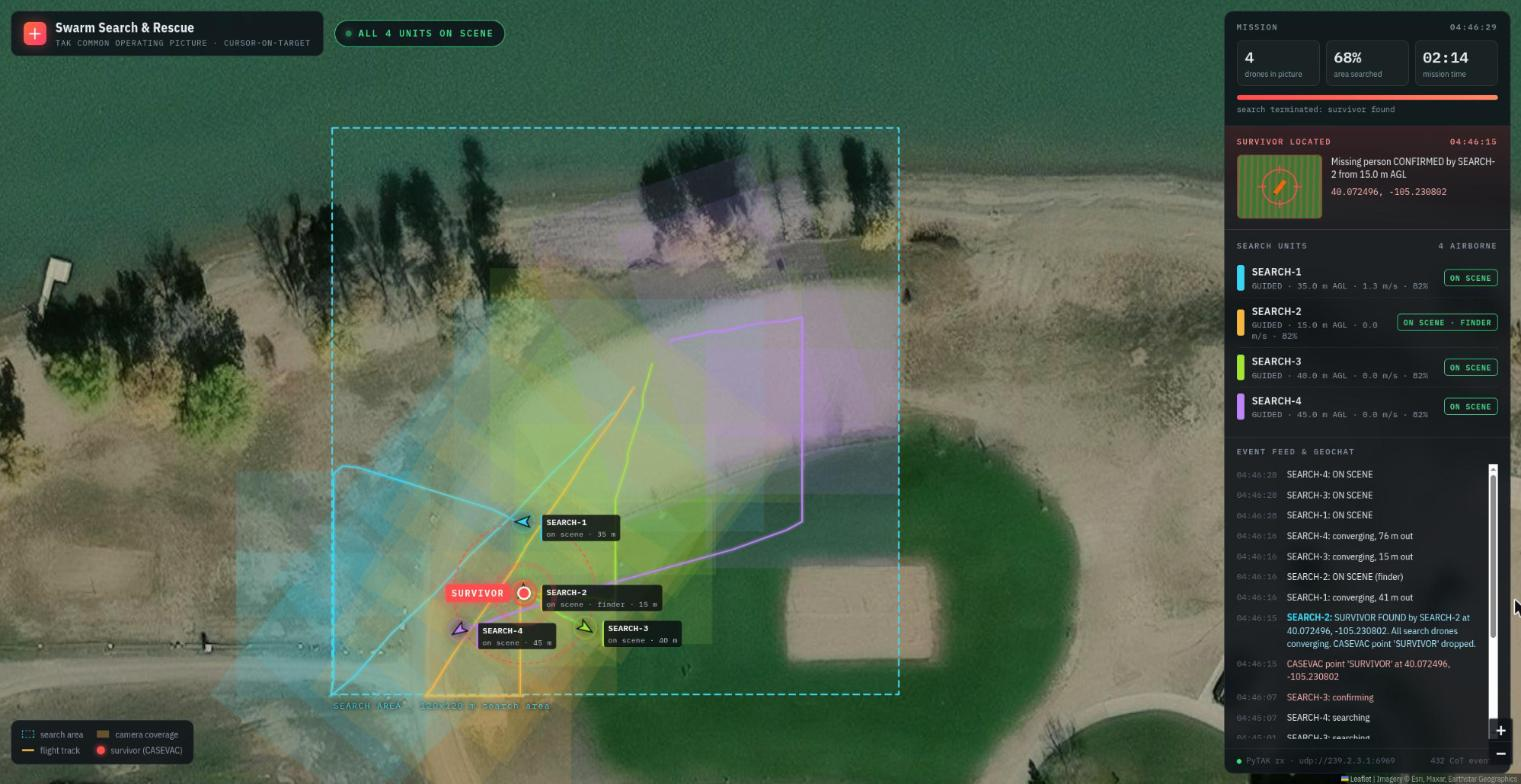
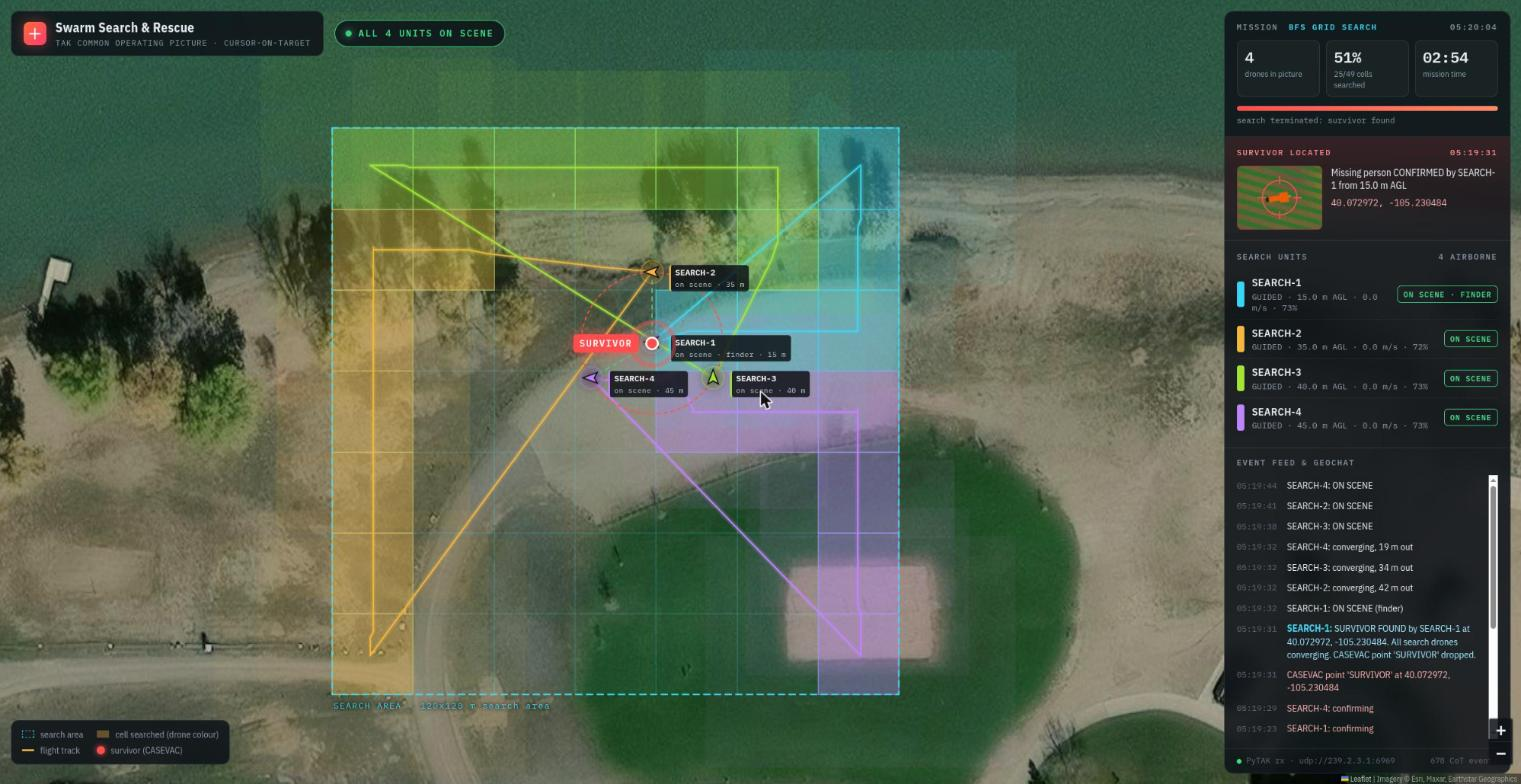
Validate drone count in launchers; document BFS/DFS SAR and TAK sim
Baseline before the contracts refactor.

diff --git a/docs/TAK.md b/docs/TAK.md
@@ -32,6 +32,38 @@ SWARM_MISSION=survey ./start_tak_sim.sh 4  # weed survey (wired, not yet run end
 
 ![TAK sim: SAR mission, all units on scene](images/tak_sim_sar.jpg)
 
+**SAR in the TAK sim** (defaults set by `start_tak_sim.sh`):
+
+- *Separate launch points* (`SPAWN_LAYOUT=corners`): drone i homes at a corner
+  of the 120 m area (inset 8 m), then edge midpoints
+  (`start_drone_container.sh`, matching `sar_search.launch_points`).
+- *Coordinated grid search* (`SAR_SEARCH=bfs|dfs|strips`, `sar_search.py`):
+  7x7 cells of ~17 m. **bfs**: from its current cell each drone takes the
+  nearest unclaimed cell (breadth-first over the 4-connected grid, ties keep
+  heading), so the fronts sweep inward from the corners. **dfs**: depth-first
+  from the launch cell, backtracking over its own stack. Cells are claimed
+  with O_EXCL files in `logs/sar/claims/`, so no cell is searched twice. The
+  bridge sends each claimed cell as a CoT rectangle in the drone's colour.
+- *Computer vision* (`camera_processor.detect_person`): a wide hi-vis HSV mask
+  finds candidates. Each blob is then measured in metres (GSD = AGL / focal px)
+  and scored as a person lying down (length about 1.6 m, width about 0.75 m
+  with arms, solidity). Blobs cut by the frame edge are rejected, because a
+  clipped kayak can look exactly person-sized. Detections carry
+  `confidence`, `length_m` and `width_m`. Rejections go to the sidecar's
+  `person_rejected` with a reason. A sighting must be re-detected from 15 m
+  before the call.
+- *Harder imagery* (`SIM_SCENARIO=sar_scenario`, `SIM_REALISM=1`):
+  `models/sar_scenario/ground_truth.json` holds the casualty (seed 33,
+  mid-field) and orange decoys (3 cones, a tarp, a kayak, a backpack). The
+  renderer adds ground texture, tree shadows, an articulated casualty,
+  exposure changes, blur and sensor noise. The Gazebo worlds are untouched.
+  Bench: person found in 80/80 fully-in-view frames at 30 and 15 m, and
+  0 decoy hits in 480 frames.
+- *Browser check*: `python3 tests/e2e/check_tak_viewer.py [--url ...]`
+  (Playwright, headless Chromium). It passes through four stages (picture ->
+  searching -> found -> on scene) and saves screenshots to
+  `test-results/tak_viewer/`.
+
 No Gazebo, no ATAK install needed. What stands in for Gazebo:
 
 | Gazebo provided | Replaced by |

diff --git a/CLAUDE.md b/CLAUDE.md
@@ -210,6 +210,15 @@ auto|pytak|stdlib selects `PytakSender` or `CotSender` (file:// always uses
 `CotSender`). `tak_viewer.py` is a read-only PyTAK receiver serving a Leaflet
 map (`src/swarm_control/viewer/index.html`).
 
+SAR defaults in the TAK sim: `SPAWN_LAYOUT=corners` (separate launch points),
+`SAR_SEARCH=bfs` (or `dfs`/`strips`; `sar_search.py`, cells claimed via O_EXCL
+files in logs/sar/claims), `SIM_SCENARIO=sar_scenario` (casualty plus orange
+decoys) and `SIM_REALISM=1`. Person detection is `detect_person`: HSV
+candidates, then a metric shape score with frame-edge rejection. Browser e2e:
+`python3 tests/e2e/check_tak_viewer.py` (Playwright).
+Gotcha: `read A B < <(awk 'printf ...')` under `set -e` exits silently if the
+printf lacks `\n` (read returns 1 at EOF). This killed every drone container.
+
 Gotcha: test feeds on 239.2.3.1:6969 with the default UID prefix merge into
 any live mission's TAK picture. Use `TAK_UID_PREFIX` or unicast for experiments.
 
